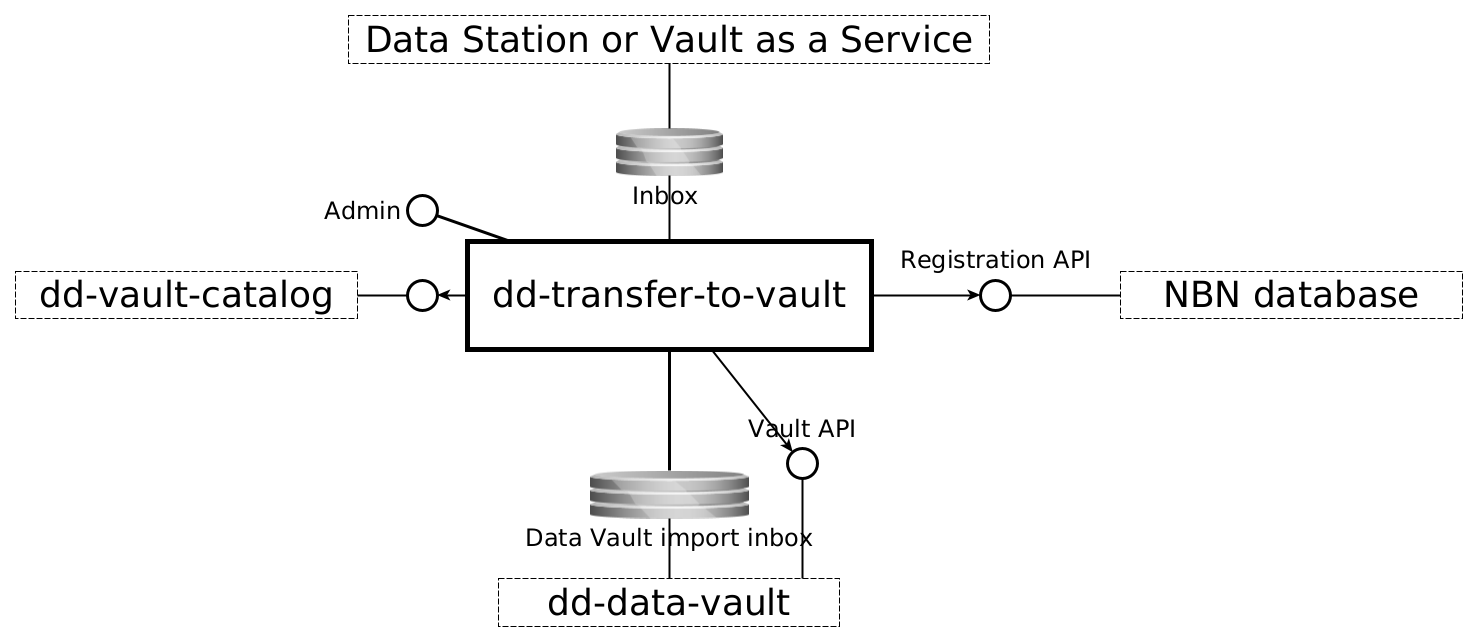
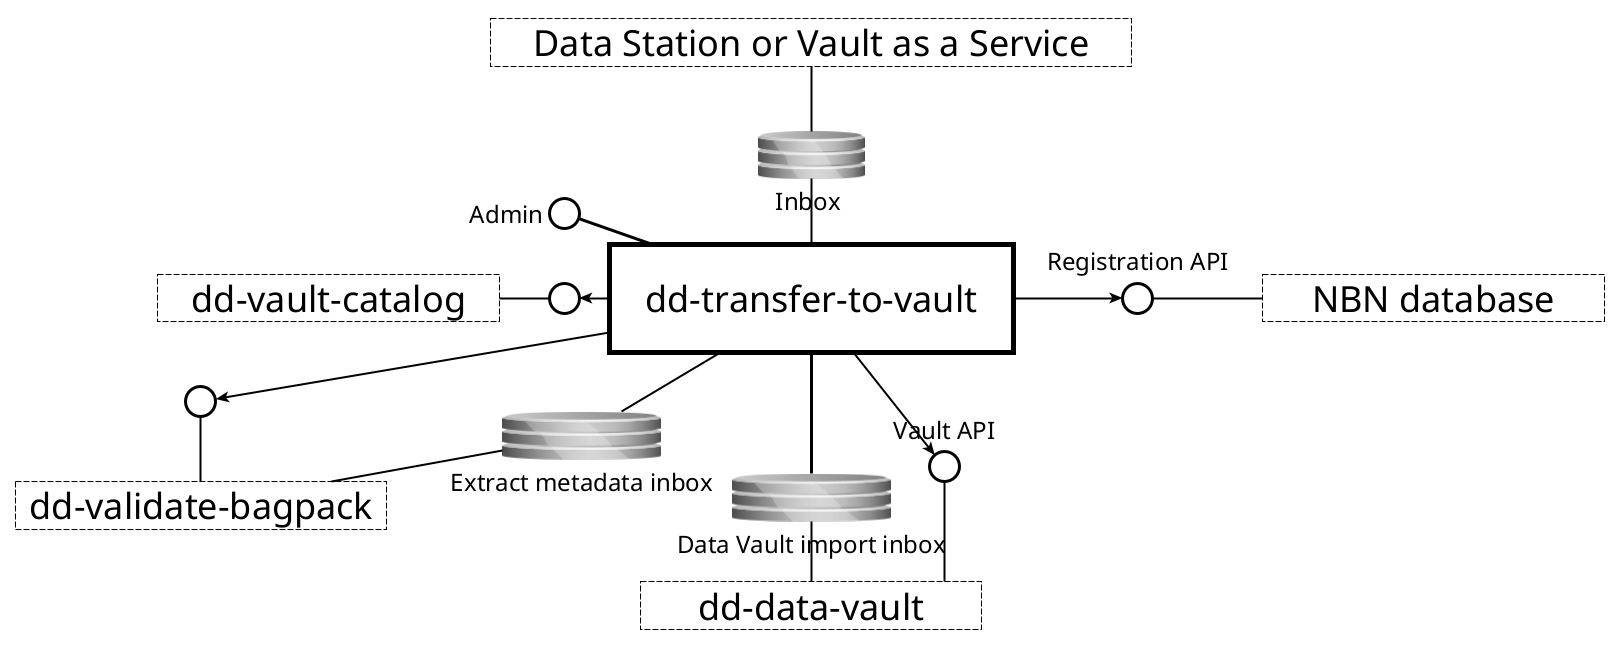
Updated docs for validate bagpack

diff --git a/docs/index.md b/docs/index.md
@@ -32,6 +32,18 @@ This service has the following interfaces:
 
 ### Consumed interfaces
 
+#### Validate Bagpack API
+
+* _Protocol type_: HTTP
+* _Internal or external_: **internal**
+* _Purpose_: to validate that the DVE is a valid bagpack
+
+#### Extract metadata inbox
+
+* _Protocol type_: Shared filesystem
+* _Internal or external_: **internal**
+* _Purpose_: to let the Validate Bagpack service access the DVE for validation
+
 #### Data Vault Catalog
 
 * _Protocol type_: HTTP
